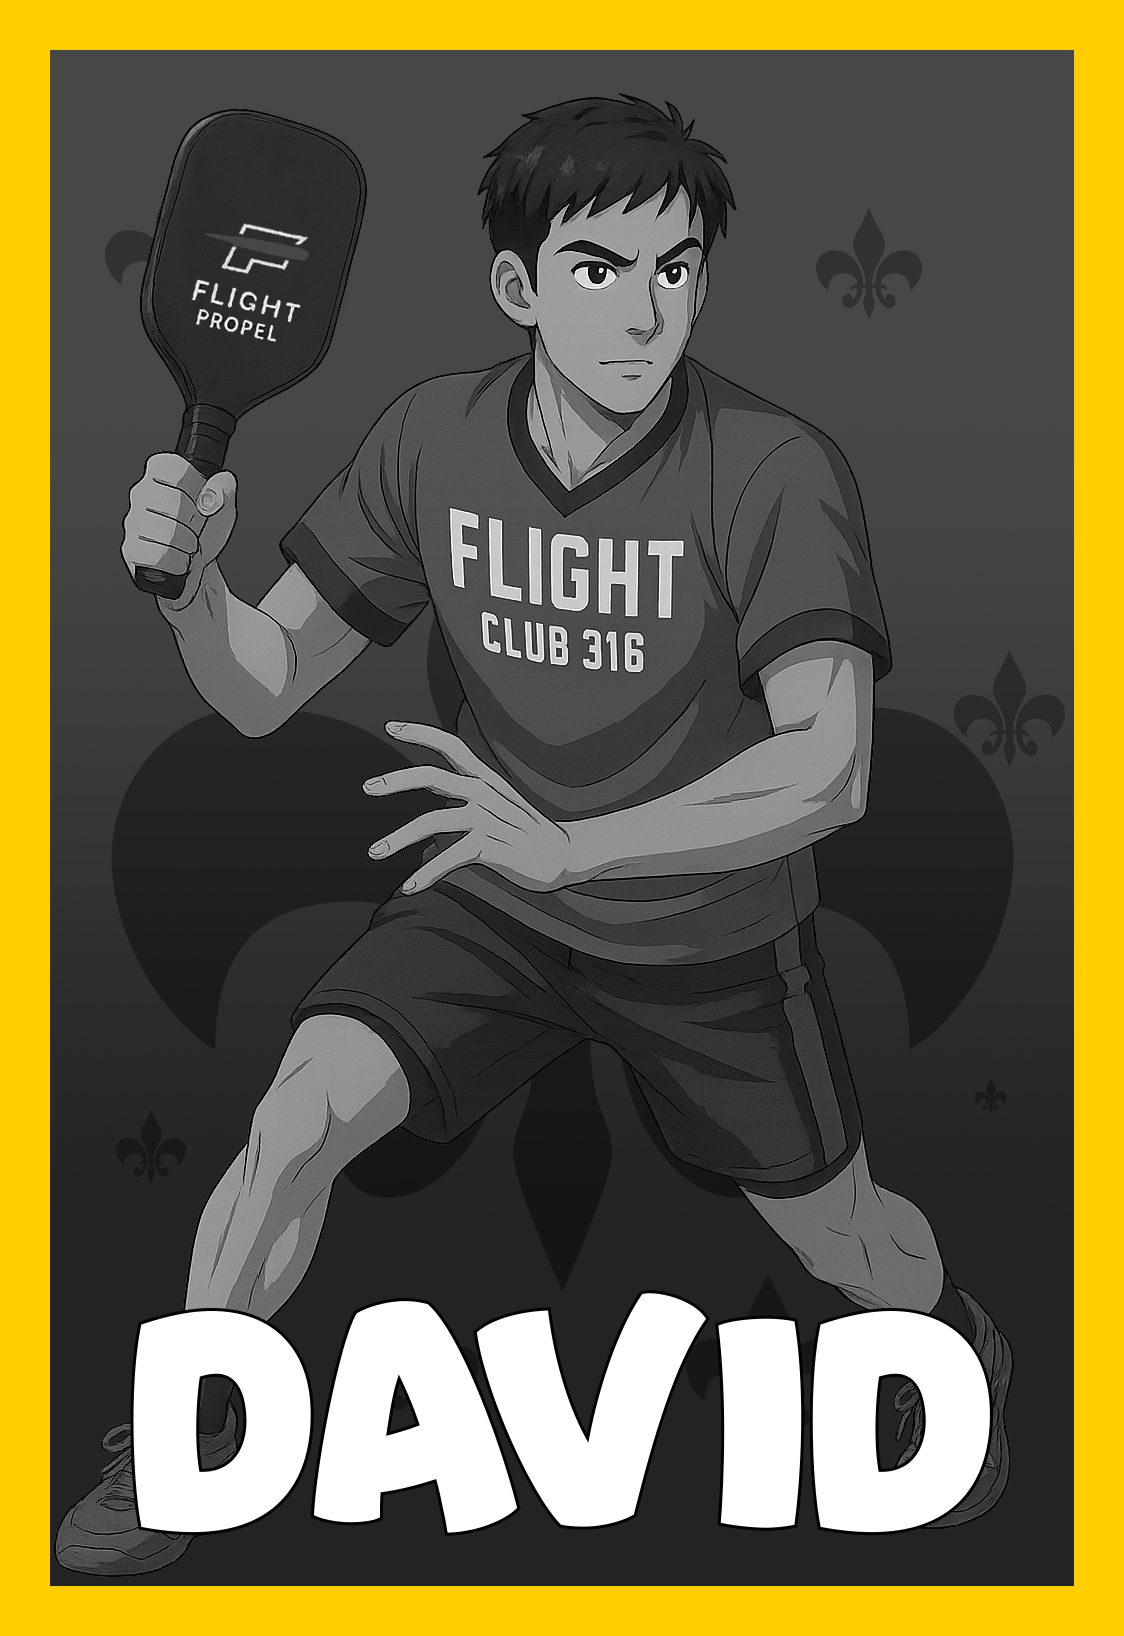
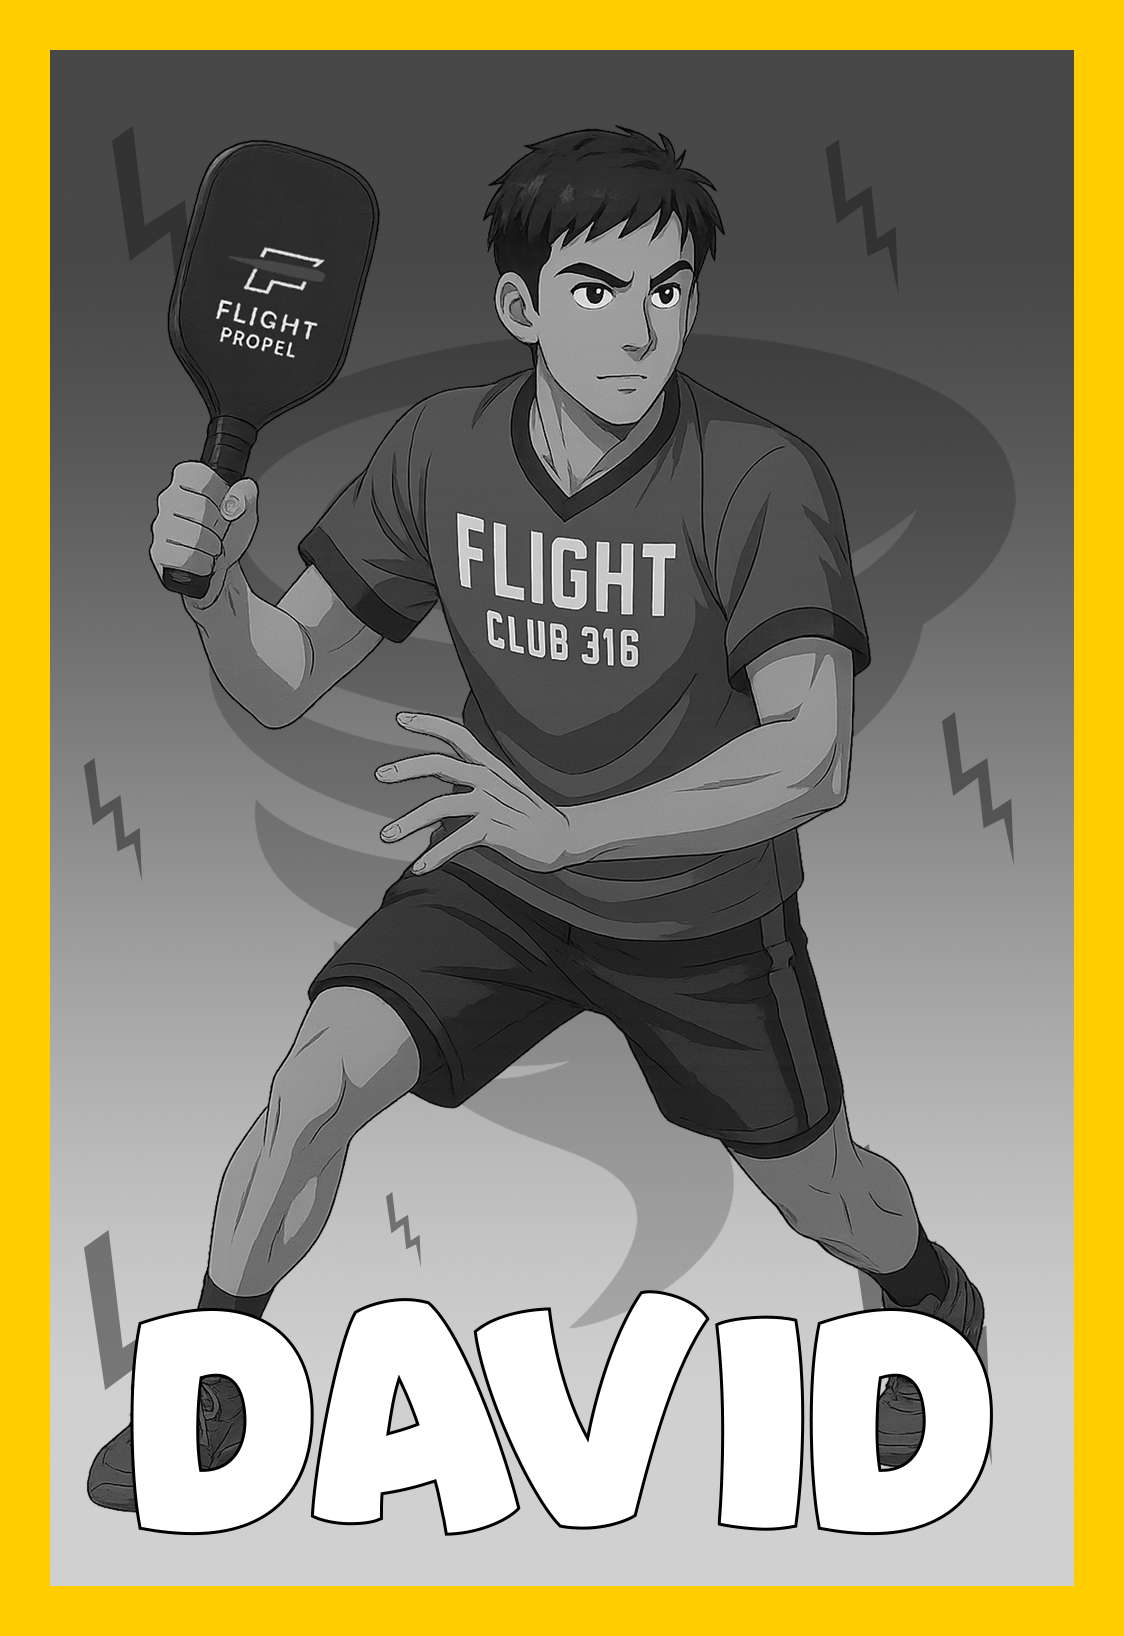
Fix bios

diff --git a/src/App.js b/src/App.js
@@ -6,12 +6,12 @@ import InstructorShowcaseMobile from './components/InstructorShowcaseMobile';
 import InstructorShowcaseDesktop from './components/InstructorShowcaseDesktop';
 
  const instructorsGroup = [
-  {name: 'Noi Sourinthone', title:'The Showstopper', age: '40', hand: 'Right', bio:'Noi bio', cardImage1: process.env.PUBLIC_URL + '/assets/Noi1.png', cardImage2: process.env.PUBLIC_URL + '/assets/Noi2.png'},
-  {name: 'Fin Tatum', title:'The Mirage', age: '25', hand: 'Left', bio:'Fin bio', cardImage1: process.env.PUBLIC_URL + '/assets/Fin1.png', cardImage2: process.env.PUBLIC_URL + '/assets/Fin2.png'},
-  {name: 'Lock Sourinthone', title:'The Cannon', age: '42', hand: 'Right', bio:'Lock bio', cardImage1: process.env.PUBLIC_URL + '/assets/Lock1.png', cardImage2: process.env.PUBLIC_URL + '/assets/Lock2.png'},
-  {name: 'Jen Reifschneider', title:'The Assassin', age: '30', hand: 'Left', bio:'Jen bio', cardImage1: process.env.PUBLIC_URL + '/assets/Jen1.png', cardImage2: process.env.PUBLIC_URL + '/assets/Jen2.png'},
-  {name: 'Matt Rochat', title:'The Spark', age: '30', hand: 'Right', bio:'Matt bio', cardImage1: process.env.PUBLIC_URL + '/assets/Matt1.png', cardImage2: process.env.PUBLIC_URL + '/assets/Matt2.png'},
-  {name: 'David Lopez', title:'The Tempest', age: '21', hand: 'Right', bio:'David bio', cardImage1: process.env.PUBLIC_URL + '/assets/David1.png', cardImage2: process.env.PUBLIC_URL + '/assets/David2.png'},
+  {name: 'Noi Sourinthone', title:'The Showstopper', quote: 'Every point — a performance', bio:'Flashy, relentless, and impossible to ignore. Noi\'s deceptive slices and fearless speedsups capitvate crowds and opponents alike.', cardImage1: process.env.PUBLIC_URL + '/assets/Noi1.png', cardImage2: process.env.PUBLIC_URL + '/assets/Noi2.png'},
+  {name: 'Fin Tatum', title:'The Eclipse', quote: `Control what's seen. Decide what isn't.`, bio:'Fin bio', cardImage1: process.env.PUBLIC_URL + '/assets/Fin1.png', cardImage2: process.env.PUBLIC_URL + '/assets/Fin2.png'},
+  {name: 'Lock Sourinthone', title:'The Cannon', quote: 'The fuse is already lit.', bio:'Lock bio', cardImage1: process.env.PUBLIC_URL + '/assets/Lock1.png', cardImage2: process.env.PUBLIC_URL + '/assets/Lock2.png'},
+  {name: 'Jen Reifschneider', title:'The Assassin', quote: 'No defense againt the unseen.', bio:'Jen bio', cardImage1: process.env.PUBLIC_URL + '/assets/Jen1.png', cardImage2: process.env.PUBLIC_URL + '/assets/Jen2.png'},
+  {name: 'Matt Rochat', title:'The Solar Flare', quote: 'Dawn breaks. So do they.', bio:'Matt bio', cardImage1: process.env.PUBLIC_URL + '/assets/Matt1.png', cardImage2: process.env.PUBLIC_URL + '/assets/Matt2.png'},
+  {name: 'David Lopez', title:'The Tempest', quote: 'No calm before this storm.', bio:'David bio', cardImage1: process.env.PUBLIC_URL + '/assets/David1.png', cardImage2: process.env.PUBLIC_URL + '/assets/David2.png'},
 ];
 
 

diff --git a/src/components/InstructorShowcaseMobile.js b/src/components/InstructorShowcaseMobile.js
@@ -56,6 +56,7 @@ function InstructorShowcaseMobile({ instructorGroup }) {
               <div className='m-instructor-info-tray'>
                 <h3>{instructor.name}</h3>
                 <h5>{instructor.title}</h5>
+                <h6>{instructor.quote}</h6>
                 <p>{instructor.bio}</p>
               </div>
             </div>

diff --git a/src/App.scss b/src/App.scss
@@ -9,7 +9,6 @@
   .desktop-layout {display: block;}
 }
 
-
 /* Main Container */
 .container-fluid {
   background-color: #000;
@@ -63,7 +62,7 @@
 .m-instructor-slide {
   margin: 0rem;
   display: flex;
-  flex-direction: row;
+  flex-direction: column;
   align-items: stretch;
   justify-items: center;
   flex-wrap: nowrap;
